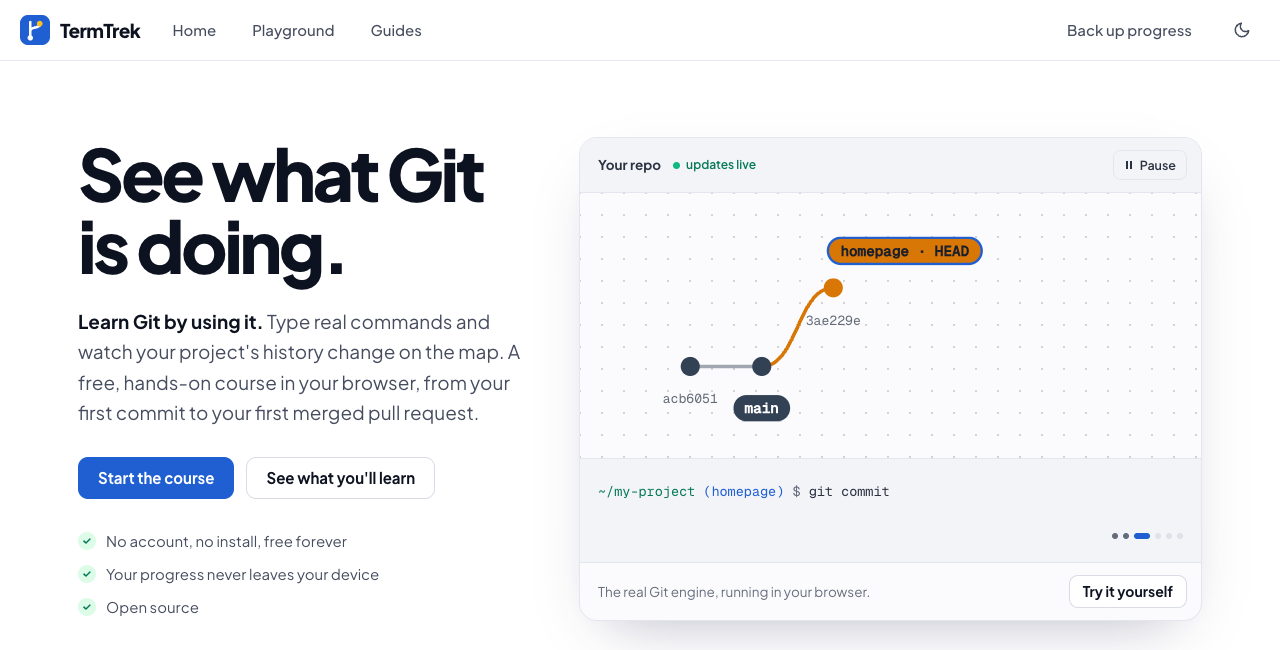
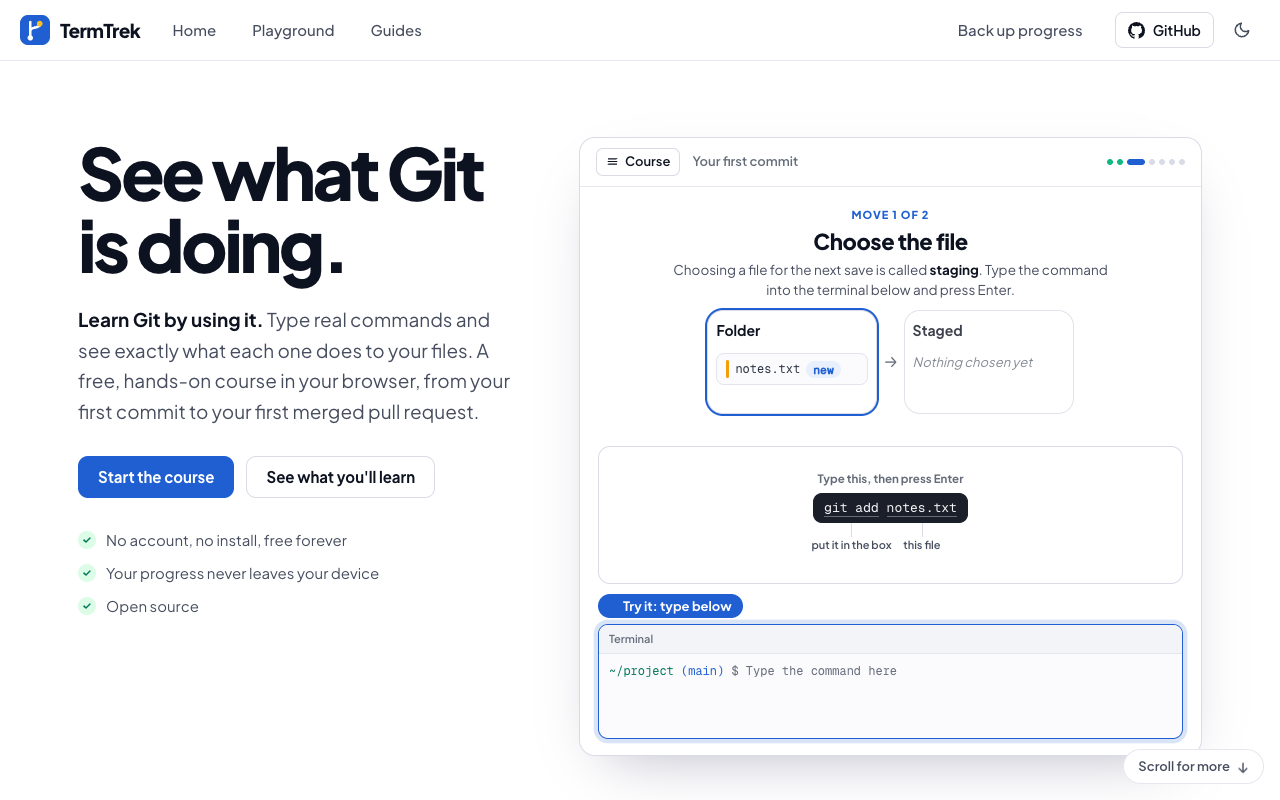
docs(readme): retake the landing screenshot

diff --git a/README.md b/README.md
@@ -9,7 +9,7 @@
 
 [**Start learning at termtrek.work**](https://termtrek.work)
 
-![The TermTrek landing page, with a live repo map](docs/screenshots/landing.png)
+![The TermTrek landing page: the first lesson, ready for you to type a Git command](docs/screenshots/landing.png)
 
 </div>
 
